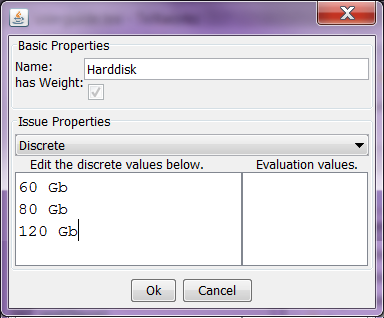
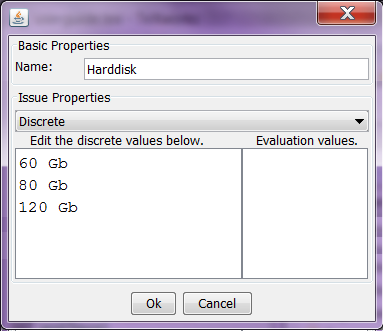
Rewrote Section 3 and part of Section 4.

Changed region(s): [[0.0, 0.0, 1.0, 1.0], [0.1562, 0.7075, 0.2188, 0.7642], [0.0312, 0.7075, 0.125, 0.7642]]

diff --git a/doc/userguide.tex b/doc/userguide.tex
@@ -36,6 +36,7 @@
 
 % This is now the recommended way for checking for PDFLaTeX:
 \usepackage{ifpdf}
+\usepackage{comment}
 
 %\newif\ifpdf
 %\ifx\pdfoutput\undefined
@@ -224,7 +225,7 @@ Start \Genius~by following the instructions in the previous section. After start
 
 \begin{itemize}
 	\item The \textbf{Menubar} (blue border) allows us to start a new negotiation.
-	\item The \textbf{Components Panel} (red border) shows all available scenarios. By clicking the ``Agents'' tab all agents are shown.
+	\item The \textbf{Components Window} (red border) shows all available scenarios and agents.
 	\item The \textbf{Status Window} (green border) shows the status of the negotiation or structure of a selected domain or preference profile.
 \end{itemize}
 
@@ -234,8 +235,8 @@ Start \Genius~by following the instructions in the previous section. After start
 \caption{The negosimulator right after start-up.}\label{Fig:negosimulator start}
 \end{figure}
 
-\subsection{Adding a Domain}
-By right clicking on the list of available scenarios in the Components Panel a popup menu with the option to create a new domain is shown. After clicking this option it is requested where the domain should be saved. As a domain is accompanied by a set of preference profiles, it is recommended to save the file in a new directory in the templates folder.
+\subsection{Creatingyy a Domain}
+By right clicking on the list of available scenarios in the Components Window a popup menu with the option to create a new domain is shown. After clicking this option it is requested where the domain should be saved. As a domain is accompanied by a set of preference profiles, it is recommended to save the file in a new directory in the templates folder. After saving the domain a window similar to Figure~\ref{Fig:newdomain} is shown. Initially, a domain contains zero issues. We can simply add an issue by pressing the ``Add issue'' button. This results in the opening of a dialog similar to Figure~\ref{fig:createIssueD}.
 
 \begin{figure}[htb]
 	\centering
@@ -243,13 +244,11 @@ By right clicking on the list of available scenarios in the Components Panel a p
 \caption{The negosimulator after loading the laptop domain.}\label{Fig:newdomain}
 \end{figure}
 
-The next step is to scroll to the bottom of the list and double click the newly created domain. This shows a window similar to~\ref{Fig:newdomain}. A domain is created with zero issues. We can simply add an issue by pressing the ``add issue'' button. This results in the opening of a dialog similar to~\ref{fig:creatingIssueID}.
+The current version of \Genius~supports the creation of discrete and integer issues. Starting with a discrete issue, the values of the issue should be specified. In Figure~\ref{fig:createIssueD} we show the values of the issue ``Harddisk''. Note the empty evaluation values window, later on when creating a preference profile we will use this tab to specify the preference of each value.
 
-The current version of \Genius~supports the creation of discrete and integer issues. Starting with a discrete issue, the values of the issue should be specified. In Figure~\ref{fig:createIssueD} we show the values of the issue ``Harddisk''. Note the empty ``evaluation values'' window, later on when creating a preference profile we will use this tab to specify the preference of the values.
+Instead of a discrete issue, we can also add an integer issue as shown in Figure~\ref{fig:createIssueI}. For an integer issue we first need to specify the lowest possible value and the highest value. Following, when creating a preference profile we need to specify the utility of the lowest value and the highest value. During the negotiation we can offer any value for the issue within the specified range.
 
-Instead of a discrete issue, we can also add an integer issue. For an integer issue we first need to specify the lowest possible value and the highest value. Following, when creating a preference profile we need to specify the utility of the lowest value and the highest value. During the negotiation we can offer any value for the issue within the specified range. The utility of the value is a linear interpolation of the utility of the lowest and highest value of the range.
-
-The next step is to press ok to add the issue. Generally, a domain consists of multiple issues. We can simply add the other issues by repeating the process above. If you are happy with the domain, you can save it by pressing the save button.
+The next step is to press ``Ok'' to add the issue. Generally, a domain consists of multiple issues. We can simply add the other issues by repeating the process above. If you are satisfied with the domain, you can save it by pressing  ``Saving changes''.
 
 Finally, note that issues can only be added and removed when there are not yet preference profiles. This is to avoid inconsistencies between the preference profiles and the domains.
 
@@ -260,136 +259,62 @@ Finally, note that issues can only be added and removed when there are not yet p
 \caption{Creating a discrete issue.}
 \label{fig:createIssueD}
 \end{minipage}
-\hspace{0.5cm}
 \begin{minipage}[b]{0.45\linewidth}
 \centering
 	\includegraphics[width=0.8\textwidth]{media/image7b.png}
-\caption{Creating an integer issue.}\label{Fig:createIssueI}
+\caption{Creating an integer issue.}\label{fig:createIssueI}
 \end{minipage}
 \end{figure}
 
-
-
-\subsection{Create a Preference Profile}
-We need to extend the domain that has now been loaded into an empty utility space for that domain. In the Domains and Preference Profiles tab, select the domain for which you want to create a new preference profile. Then select File $>$ New $>$ Preferences Profile. After this, the editor should look like Figure~\ref{Fig:negosimulator utility space created}. New as compared to Figure 4 is the ``Weight'' column, showing the importance associated with this issue. Notice the numbers and check boxes at the far right. If you do not see them in your window, you may need to resize the window and the headers.
+\subsection{Creating a Preference Profile}
+Now that we created a domain, the next step is to add a set of preference profile. By right clicking on the domain a popup menu is opened which has an option to create a new preference profile. Selecting this option results in the opening of a new window which looks similar to Figure~\ref{fig:utilcreated}. It should be noted that when a domain has one or more preference profiles the issues can no longer be modified.
 
 \begin{figure}[htb]
 	\centering
-	\includegraphics[width=0.4\textwidth]{media/image8.png}
-\caption{The negosimulator after creating a new utility space.}\label{Fig:negosimulator utility space created}
+	\includegraphics[width=0.8\textwidth]{media/image8.png}
+\caption{The negosimulator after creating a new utility space.}\label{fig:utilcreated}
 \end{figure}
 
-Now you are ready to start customizing your utility space to reflect your personal preferences. The next two steps will deal with this.
+Now you are ready to start customizing your utility space to reflect your personal preferences. There are two steps: setting the importance of the issues and setting the preference of the values of the issues. To start with the first step, you can adjust the relative weights of the issues by using the sliders next to that issue. Note that when you slide a slider, the weights of the other sliders are automatically updated such that the all weights still sum up to one. If you do not want this behavior, you can lock the weight of an issue by selecting the checkbox behind it.
 
-\subsection{Set the Evaluation Values}
-In this step the utility values for each value will be set for each of the issues. Select one of the issues by clicking on the name of the issue (do not select the ``LaptopDomain'' which is not an issue). The selected name will turn blue and a large yellow area will appear. Then click the ``Edit'' button. The editor for discrete issues will pop up (see Figure~\ref{Fig:discrete issue editor}).
+Now that we determined the weights of the issues, it is a good idea to save the utility space by selecting ``Save changes''. The next and final step is to set the evaluation of the issues. To specify the evaluation of an issue you can double click it to open a new window looking similar to Figure~\ref{fig:createIssueD} or Figure~\ref{fig:createIssueI} depending on the type of the issue.
 
-\begin{figure}[htb]
-	\centering
-	\includegraphics[width=0.4\textwidth]{media/image9.png}
-\caption{The discrete-issue editor.}\label{Fig:discrete issue editor}
-\end{figure}
+For a discrete issue we need to specify the evaluation value of each discrete value. A specific value can be assigned any positive non-zero integer as evaluation value. During the negotiation the utility of value is determined by dividing the value by the highest value for that particular issue. To illustrate, if we give 60 Gb evaluation 5, 80 Gb evaluation 8, and 120 Gb evaluation 10; then the utilities of these values are respectively 0.5, 0.8, and 1.0.
 
-Now you can edit the column Evaluation values by clicking in the blank column under ``Evaluation values''. You can enter the evaluation values, one per line, matching the values on your hand-written profile. Only integer numbers larger than 0 are allowed. To introduce a strong preference of one issue over other issues, just make the number very large. The window will look like Figure~\ref{Fig:discrete issue editor edited} after editing.
+Specifying the preference of a integer issue is even easier. In this case we simply need to specify the utility of the lowest possible value for that issue and the utility of the highest possible value. The utility of a value in this range is calculated during the negotiation by using linear interpolation of the utilities of both given utilities. If you are satisfied with the profile you can save it by pressing ``Save changes''. 
 
-Do not edit the first column. Doing so will change the domain, resulting in a utility space that does not fit the laptop domain. The other columns should not be edited either for the same reasons. The editor will not allow editing of these values anyway, but you can also edit the xml files by hand in which case you have to be careful not to touch those fields.
-When adjusting the evaluation values, keep in mind that the utility of a bid will be zero if the cost constraint is violated (see Equation 1).
-
-\begin{figure}[htb]
-	\centering
-	\includegraphics[width=0.4\textwidth]{media/image10.png}
-\caption{The discrete-issue editor after entering the evaluation values.}\label{Fig:discrete issue editor edited}
-\end{figure}
-
-If you are satisfied with the evaluation values, press the Ok button. If you entered an illegal value, a warning will appear and the evaluation values will not be changed. Repeat step 4 for the other issues, until all evaluation values of all issues have been set.
-
-\subsection{Set the Issue Weights}
-As a final step to tune your utility space, you can adjust the relative weights of the issues, by using the sliders next to that issue. You can lock the weight value of an issue by clicking the checkbox next to the slider. The sum of the weights is automatically kept at 1, causing all unlocked sliders to change when you drag one of them.
-
-\subsection{Save your Utility Space}
-
-Once you have set all sliders and have filled out the evaluations for the options under each issue, select File $>$ Save or click the save button, and save your file. It is possible to save incomplete utility space, for later completion although this is not recommended. Use an appropriate non-existing filename that refers to the domain it is related to, and makes clear it is a utility space file, e.g. laptop\_buyer\_utility.xml. The preference profile is automatically added to the repository under the domain.
- 
 \section{Running Negotiations}
-To run a negotiation session, select File $>$ New $>$ Negotiation Session. The Session tab pops up (Figure~\ref{Fig:negotiation set-up}). 
+This section discusses how to run a negotiation. There are three main modes to run a negotiation:
 
-\begin{figure}[htb]
-	\centering
-	\includegraphics[width=0.4\textwidth]{media/image11.png}
-\caption{The negotiation set-up screen.}\label{Fig:negotiation set-up}
-\end{figure}
-
-You need to set up the following items:
 \begin{itemize}
-	\item The negotiation protocol. Only the Alternating offers is possible at this time. You can also use ``Alternating Offers with separate deadlines (deprecated)'' protocol for backwards compatibility with agents written for older versions of \Genius.
-	\item Agent A/B preferences profile: the xml file containing the utility space of agent A/B. Usually this is a file with a name like laptop\_A/B\_utility.xml.
-	\item Agent A/B name: the name of the negotiation agent that party A/B in the negotiation wants to use. You can use the provided agents, or use your own agent placed in the directory containing the \texttt{negotiator.jar} file. UIAgent allows you to manually control party A/B in the negotiation. SimpleAgent is an agent that automatically handles the negotiation for party A/B.
+	\item \textbf{Negotiation session}. A negotiation session concerns a single negotiation in which two agents compete. This mode is mainly intended for new users. Advanced users are recommended to create a tournament as it supports more options.
+	\item \textbf{Tournament}. A tournament is a collection of sessions. Two sets of agents compete against each other on a set of domains.
+	\item \textbf{Distributed tournament}. A distributed tournament is a tournament divided among multiple computers. This mode can be used to run large tournament in a reasonable amount of time.
 \end{itemize}
 
-After these fields have been set appropriately, you can press the Start button to run the negotiation sessions.
+Before going into detail on how each of these modes work, we first discuss the two types of agents which can be used: automated agents and non-automated agents. Automated agents are agents which can compete against other agents in a negotiation without relying on input by a user. In general, these agents are able to make a large amount of bids in a limited amount of time.
 
-\subsection{Using an Automatic Agent}
-
-If you selected an automatic negotiation agent, for instance SimpleAgent, there will not appear any window while that agent has the turn. The agent should pose its bid within a reasonable time. After the agent made its bid, the other agent is given the turn. If both agents are automatic, no windows will appear at all during the entire negotiation, and only the output windows will show the ongoing negotiation results.
+In contrast, non-automated agents are agents that are fully controlled by the user. These types of agents ask the user each round which action they should make. \Genius~by default includes the UIAgent -- which has a simple user interface -- and the more extensive Extended UIAgent.
 
 
-	\subsection{Using the UIAgent}
-
-	If you selected the UIAgent for Agent A/B, the window as shown in Figure~\ref{Fig:uiagent gui} will pop up every time input from negotiation agent A/B is needed.
-
-	\begin{figure}[htb]
-		\centering
-		\includegraphics[width=0.4\textwidth]{media/image12.png}
-	\caption{The GUI of UIAgent.}\label{Fig:uiagent gui}
-	\end{figure}
-
-	This GUI has three main components: the text field at the top level, the table showing the last bid and a possible next bid, and a row of buttons at the bottom.
-	The text field shows some text about the current negotiation state.
-
-	The table has three columns: 
-	\begin{itemize}
-		\item The left column shows the names of the issues in the domain
-		\item The center column shows the evaluation values for the issues as proposed in the last bid of the opponent (or ``-'' if this is the first round)
-		\item The right column shows the current picked values for the issues. You can edit the current pick by clicking on the fields, which will open the combo boxes in the fields (Figure 10).
-	\end{itemize}
-
-	\begin{figure}[htb]
-		\centering
-		\includegraphics[width=0.4\textwidth]{media/image13.png}
-	\caption{Combo box opens after clicking on a field, allowing change of the picked values for the next bid.}
-	\end{figure}
-
-	The last two rows of the table show the cost and utility of the last opponent's bid and your current bid. The cost field will turn red if you exceed the maximum cost of 1200. The utility is shown as a percentage, and also as a bar of matching size. These values are computed according to your utility space, as that determines your score, and also because you have no access to the opponent's utility space. The lower three buttons allow you to submit the next bid as set in the right column, or to accept the opponent's last bid.
-
-	\subsection{Using the Extended UIAgent}
-
-	The extended UIAgent is similar to the UIAgent. It additionally shows a table and a plot of the utilities of all bids made in the session (Figure~\ref{Fig:uiagent extended gui}).
-
-	\begin{figure}[htb]
-		\centering
-		\includegraphics[width=0.4\textwidth]{media/image14.png}
-	\caption{The GUI of UIAgent Extended.}\label{Fig:uiagent extended gui}
-	\end{figure}
-
-\subsection{Negotiation Results}
-
-There are two types of results: the utility plot and the utility of the last bid for each round. Both are shown in the Progress tab, as displayed in Figure~\ref{Fig:progress}.
+\subsection{Running a Negotiation Session}
+To run a negotiation session select ``Start'' and then ``Negotiation Session''. This opens a window similar to Figure~\ref{Fig:session}. Before pressing ``start'' to run the negotiation the following parameters should be specified:
+\begin{itemize}
+	\item \textbf{Negotiation protocol}. The set of available protocols. Normally ``Alternating Offers'' is used.
+	\item \textbf{Side A/Side B}. The configuration of both agents which negotiate against each other.
+	\item \textbf{Preference profile}. The preference profile to be used by the agent of that side.
+	\item \textbf{Agent name}. The agent which should participate in the negotiation.
+\end{itemize}
 
 \begin{figure}[htb]
 	\centering
-	\includegraphics[width=0.4\textwidth]{media/image15.png}
-\caption{Progress tab. The utility plot also shows the Pareto Frontier (the red line), and the bidding sequence of agent A and agent B (the green and the blue lines).}\label{Fig:progress}
+	\includegraphics[width=0.6\textwidth]{media/image11.png}
+\caption{A negotiation session.}\label{Fig:session}
 \end{figure}
 
-\subsubsection{The Utility Plot}
-
-A utility plot will be provided during each negotiation. The plot shows points corresponding to all possible bids, the Pareto Frontier, Nash and Kalai points, all bids made by both agents and the final agreement.
-
-\subsubsection{Exchanged Offers}
-
-The results of the negotiation are shown in the Exchanged Offers part. This shows four columns: the session number, the final utility for agent A and B, and the Protol ErrorRemarks column. The utilities are the utilities of the final, accepted bid, as measured in the utility spaces of agent A and B (see the section Utility of a Bid).
 
 \subsection{Running a Tournament}
+\begin{comment}
 
 Besides running a single negotiation session, it is also possible to run a tournament. In a tournament, a negotiation session is held for every possible combination of chosen agents and preference profiles for each side. To do this, select File $>$ New $>$ Tournament. The Tournament tab will appear as displayed in Figure~\ref{Fig:tournament}. 
  
@@ -417,8 +342,35 @@ Next, double-click Agent side A and select one or more agents from the window th
 
 
 DISCUSS TOURNAMENT OPTIONS!
+\end{comment}
 
-\section{Writing a Negotiation Agent}
+
+\subsection{Running a Distributed Tournament}
+Even if MAC is used, the full negotiation space can still be too large to explore on a single computer. Distributed \Genius ~is an extension to \Genius ~which allows to share a single tournament with multiple instances of \Genius.
+
+Distributed \Genius ~works with a central MySQL database. A job can be submitted to the database by creating a distributed tournament. The job is automatically split into smaller jobs, which can be divided among users. The option to create a distributed tournament can accessed by selecting ``Distributed tournament'' in the ``New'' menu. If this option is not available, then Distributed \Genius ~is disabled. Figure~\ref{fig:dtsettings} shows the GUI used for creating a distributed tournament.
+
+\begin{figure}[h!] 
+	\center
+	\includegraphics[width=7cm]{media/Decoupled_DTsettings.png}
+	\caption{Creating a distributed tournament.}
+	\label{fig:dtsettings}
+\end{figure}
+
+It can happen that a client crashes, or is shut down, while processing a job. In this case, a claimed but unfinished session of a job remains in the database. This problem is resolved at the end of the tournament; when there are no unclaimed jobs left, each client checks whether all sessions have been processed.  If all the jobs have been processed then each client reconstructs the full log of the tournament, if not all the processes have been processed, then the client waits, as it is possible that another client is still busy with a job. If a timeout occurs, then the claimed jobs are reset and redivided. Effectively, this ensures that every tournament is processed fully before the log is retrieved and reconstructed.
+
+The GUI of the distributed tournament is similar to the normal tournament GUI, except for the last four database options. First, note that the \textit{database address} assumes that a port is given (here 3306) and a database name (DistributedGenius). The \textit{user} and \textit{password} field correspond to the database username and password. Finally, the \textit{sessionname} is the name of the tournament.
+
+Two buttons are shown in the distributed tournament GUI: a button to create a tournament and a button to join a tournament. To join a tournament \textbf{only} the protocol and sessionname are required. The other options are ignored. Note that it is assumed that every client uses the same version of \Genius~and agent code.
+
+The database structure can be created by using the SQL dump which can be found in the directory \textit{database}. 
+
+
+
+
+
+
+\section{Creating a Negotiation Agent}
 
 
 This section discusses how you create an automatic negotiation agent. To explain this, the SimpleAgent.java code as provided in the installation package will be discussed.
@@ -855,27 +807,6 @@ public class AC_MAC extends Multi_AcceptanceCondition {
 
 \end{lstlisting}
 
-
-
-\section{Distributed Genius}
-Even if MAC is used, the full negotiation space can still be too large to explore on a single computer. Distributed \Genius ~is an extension to \Genius ~which allows to share a single tournament with multiple instances of \Genius.
-
-Distributed \Genius ~works with a central MySQL database. A job can be submitted to the database by creating a distributed tournament. The job is automatically split into smaller jobs, which can be divided among users. The option to create a distributed tournament can accessed by selecting ``Distributed tournament'' in the ``New'' menu. If this option is not available, then Distributed \Genius ~is disabled. Figure~\ref{fig:dtsettings} shows the GUI used for creating a distributed tournament.
-
-\begin{figure}[h!] 
-	\center
-	\includegraphics[width=7cm]{media/Decoupled_DTsettings.png}
-	\caption{Creating a distributed tournament.}
-	\label{fig:dtsettings}
-\end{figure}
-
-It can happen that a client crashes, or is shut down, while processing a job. In this case, a claimed but unfinished session of a job remains in the database. This problem is resolved at the end of the tournament; when there are no unclaimed jobs left, each client checks whether all sessions have been processed.  If all the jobs have been processed then each client reconstructs the full log of the tournament, if not all the processes have been processed, then the client waits, as it is possible that another client is still busy with a job. If a timeout occurs, then the claimed jobs are reset and redivided. Effectively, this ensures that every tournament is processed fully before the log is retrieved and reconstructed.
-
-The GUI of the distributed tournament is similar to the normal tournament GUI, except for the last four database options. First, note that the \textit{database address} assumes that a port is given (here 3306) and a database name (DistributedGenius). The \textit{user} and \textit{password} field correspond to the database username and password. Finally, the \textit{sessionname} is the name of the tournament.
-
-Two buttons are shown in the distributed tournament GUI: a button to create a tournament and a button to join a tournament. To join a tournament \textbf{only} the protocol and sessionname are required. The other options are ignored. Note that it is assumed that every client uses the same version of \Genius~and agent code.
-
-The database structure can be created by using the SQL dump which can be found in the directory \textit{database}. 
 
 \section{Conclusions}
 Any comments and suggestions on the negotiation system and manuals can be mailed to \url{ai@mmi.tudelft.nl}.
